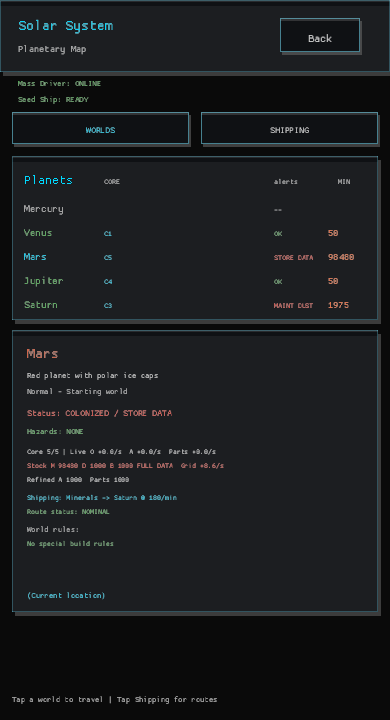
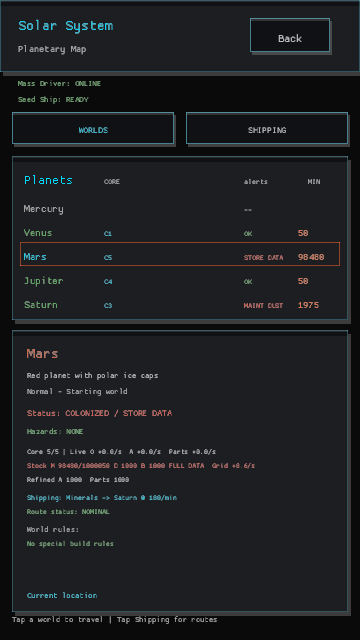
The world ledger shows its remaining room (remote mineral capacity, GDD 4)
The Solar System dossier showed remote mineral stockpiles without the live ceiling that Storage buildings and research can change, leaving capacity pressure invisible until the player travelled there. Carry the mineral capacity through WorldTelemetry and show current/capacity values in desktop and compact dossiers, with refreshed verification captures and README guidance.

diff --git a/src/screens/interplanetary_view/mobile.rs b/src/screens/interplanetary_view/mobile.rs
@@ -280,9 +280,10 @@ fn draw_mobile_planet_info(
             compact_shipping_status(&view.data.planet(order.target).name, status)
         } else if let Some(telemetry) = telemetry {
             format!(
-                "{} | M {:.0} D {:.0} B {:.0}",
+                "{} | M {:.0}/{:.0} D {:.0} B {:.0}",
                 core_stage_summary(view.data, &telemetry),
                 telemetry.minerals,
+                telemetry.mineral_capacity,
                 telemetry.data,
                 telemetry.biomass
             )
@@ -355,9 +356,10 @@ fn draw_mobile_planet_info(
             draw_ui_text(
                 &truncate_text_to_width(
                     &format!(
-                        "{} | Stock M {:.0} D {:.0} B {:.0}{}",
+                        "{} | Stock M {:.0}/{:.0} D {:.0} B {:.0}{}",
                         core_stage_summary(view.data, &telemetry),
                         telemetry.minerals,
+                        telemetry.mineral_capacity,
                         telemetry.data,
                         telemetry.biomass,
                         storage_resource_label(telemetry.storage_full_resource)
@@ -504,8 +506,9 @@ fn draw_mobile_planet_info(
         draw_ui_text(
             &truncate_text_to_width(
                 &format!(
-                    "Stock M {:.0} D {:.0} B {:.0}{}  Grid {:+.1}/s",
+                    "Stock M {:.0}/{:.0} D {:.0} B {:.0}{}  Grid {:+.1}/s",
                     telemetry.minerals,
+                    telemetry.mineral_capacity,
                     telemetry.data,
                     telemetry.biomass,
                     storage_resource_label(telemetry.storage_full_resource)

diff --git a/src/state/campaign/telemetry.rs b/src/state/campaign/telemetry.rs
@@ -41,6 +41,10 @@ impl WorldAlert {
 #[derive(Debug, Clone, Copy, PartialEq)]
 pub struct WorldTelemetry {
     pub minerals: f32,
+    /// The live mineral ceiling, including Storage buildings and research.
+    /// Other pools have a fixed shared ceiling; minerals are the remote pool
+    /// the player can deliberately expand from the Solar System screen.
+    pub mineral_capacity: f32,
     pub data: f32,
     pub biomass: f32,
     pub alloy: f32,
@@ -135,6 +139,7 @@ impl Campaign {
         };
         Some(WorldTelemetry {
             minerals: planet.resources.minerals,
+            mineral_capacity: planet.resource_capacity(ResourceType::Minerals),
             data: planet.resources.data,
             biomass: planet.resources.biomass,
             alloy: planet.resources.alloy,

diff --git a/src/screens/interplanetary_view/tests.rs b/src/screens/interplanetary_view/tests.rs
@@ -133,6 +133,7 @@ fn desktop_dossier_follows_the_remote_order_source_until_a_launch_is_confirmed()
 fn telemetry(alerts: usize, alert_kind: crate::state::WorldAlert) -> crate::state::WorldTelemetry {
     crate::state::WorldTelemetry {
         minerals: 0.0,
+        mineral_capacity: 100.0,
         data: 0.0,
         biomass: 0.0,
         alloy: 0.0,
@@ -418,6 +419,7 @@ fn biomass_reserve_uses_the_live_remote_stockpile() {
     let telemetry = [
         Some(crate::state::WorldTelemetry {
             minerals: 0.0,
+            mineral_capacity: 100.0,
             data: 0.0,
             biomass: 100.0,
             alloy: 0.0,

diff --git a/src/screens/interplanetary_view/world_dossier.rs b/src/screens/interplanetary_view/world_dossier.rs
@@ -134,8 +134,9 @@ pub(super) fn draw_world_telemetry(data: &GameData, telemetry: &WorldTelemetry, 
     );
     draw_ui_text(
         &format!(
-            "Stock M {:.0}  D {:.0}  B {:.0}  A {:.0}  P {:.0}{}",
+            "Stock M {:.0}/{:.0}  D {:.0}  B {:.0}  A {:.0}  P {:.0}{}",
             telemetry.minerals,
+            telemetry.mineral_capacity,
             telemetry.data,
             telemetry.biomass,
             telemetry.alloy,

diff --git a/src/state/campaign/tests/telemetry.rs b/src/state/campaign/tests/telemetry.rs
@@ -8,6 +8,7 @@ fn the_solar_map_reads_live_telemetry_for_colonized_worlds() {
     assert!(campaign.colonize(0));
     let fresh = campaign.world_telemetry(0).unwrap();
     assert_eq!(fresh.minerals, 50.0);
+    assert_eq!(fresh.mineral_capacity, 100.0);
     assert_eq!(fresh.data, 0.0);
     assert_eq!(fresh.biomass, 0.0);
     assert_eq!(fresh.alloy, 0.0);

diff --git a/README.md b/README.md
@@ -41,6 +41,8 @@ The swarm is powerful, but every expansion changes the terrain, stresses the gri
   power thresholds—not just the research readout.
 - Read each colonized world's live output, power balance, workforce, stockpiles,
   and alert cause from the Solar System dossier before travelling there.
+- Remote mineral stockpiles include their live capacity, so Storage buildings
+  and capacity pressure are visible before travelling to manage the world.
 - The dossier also shows remote Data, biomass, Alloy, and Components stockpiles
   plus their live generation/harvest rates, so a world can be managed without
   first travelling. Remote storage saturation is marked as `STORE <pool>` in
